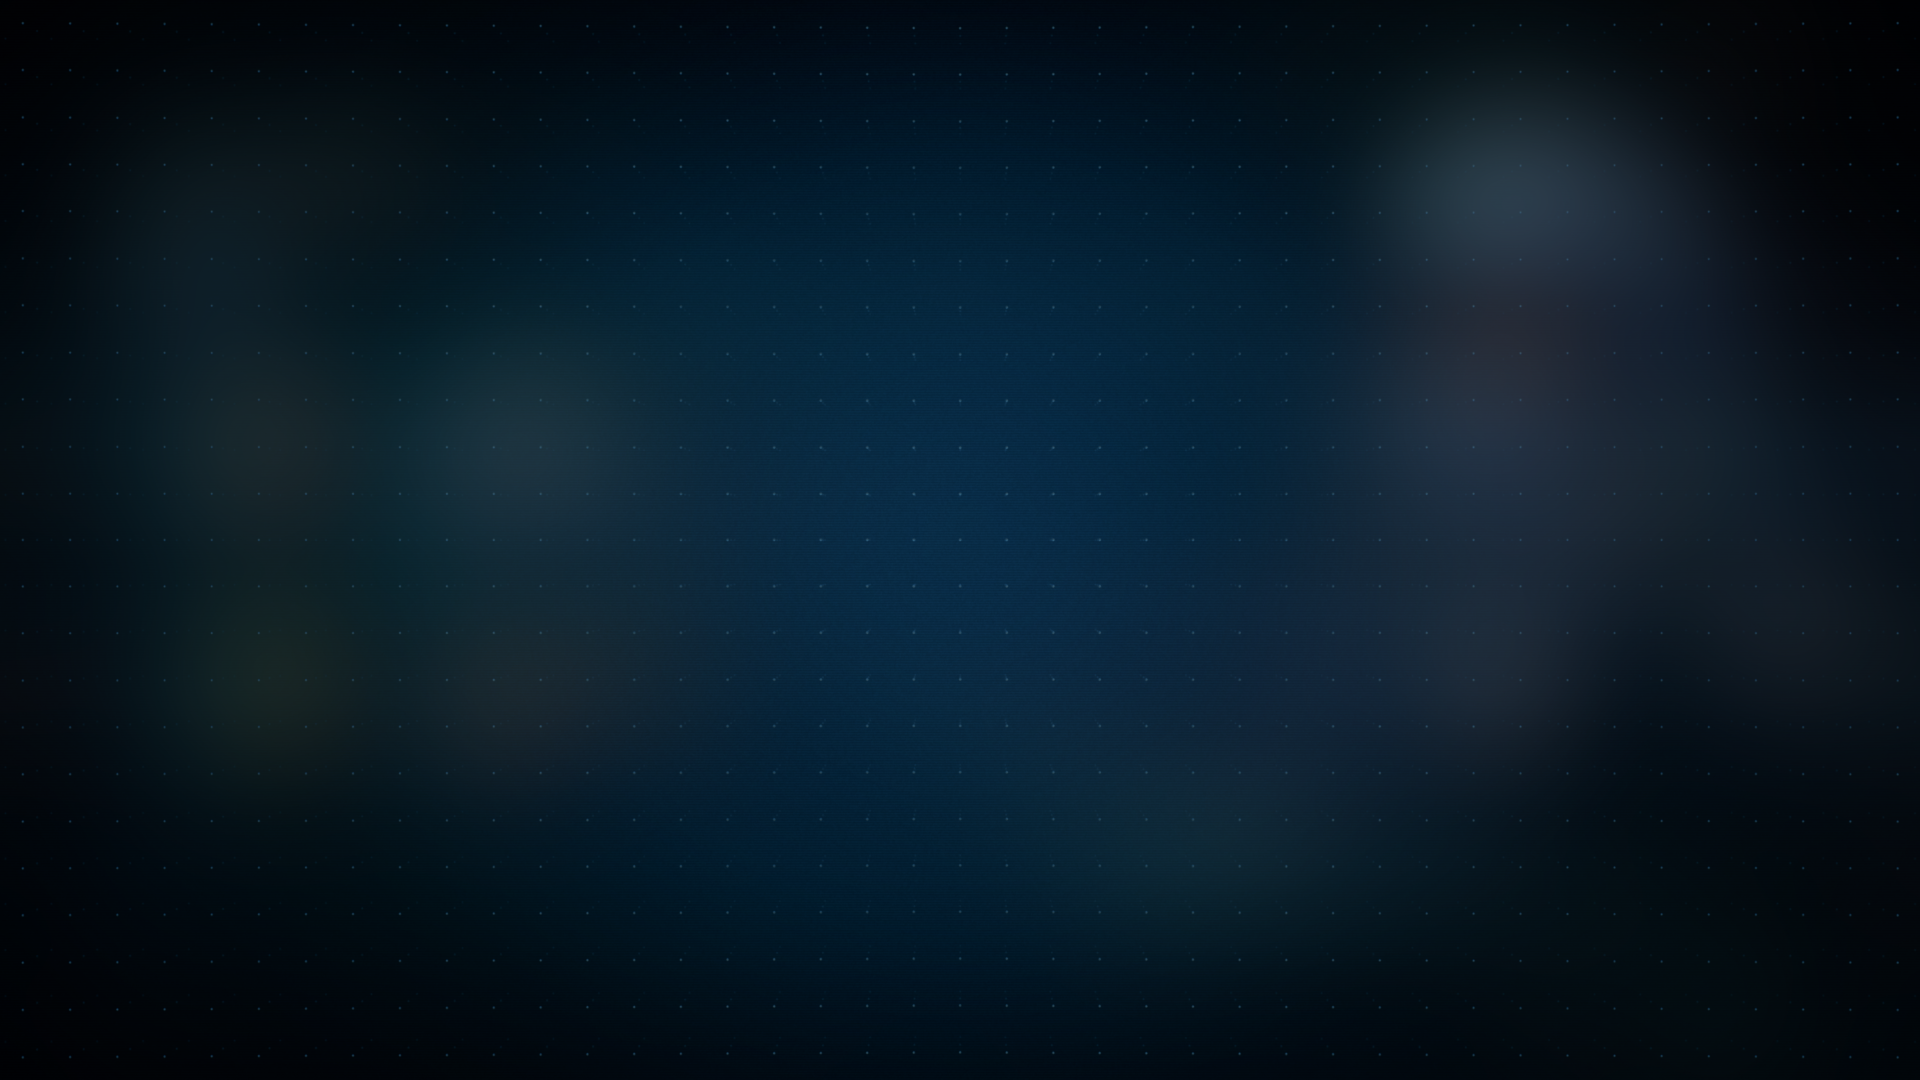
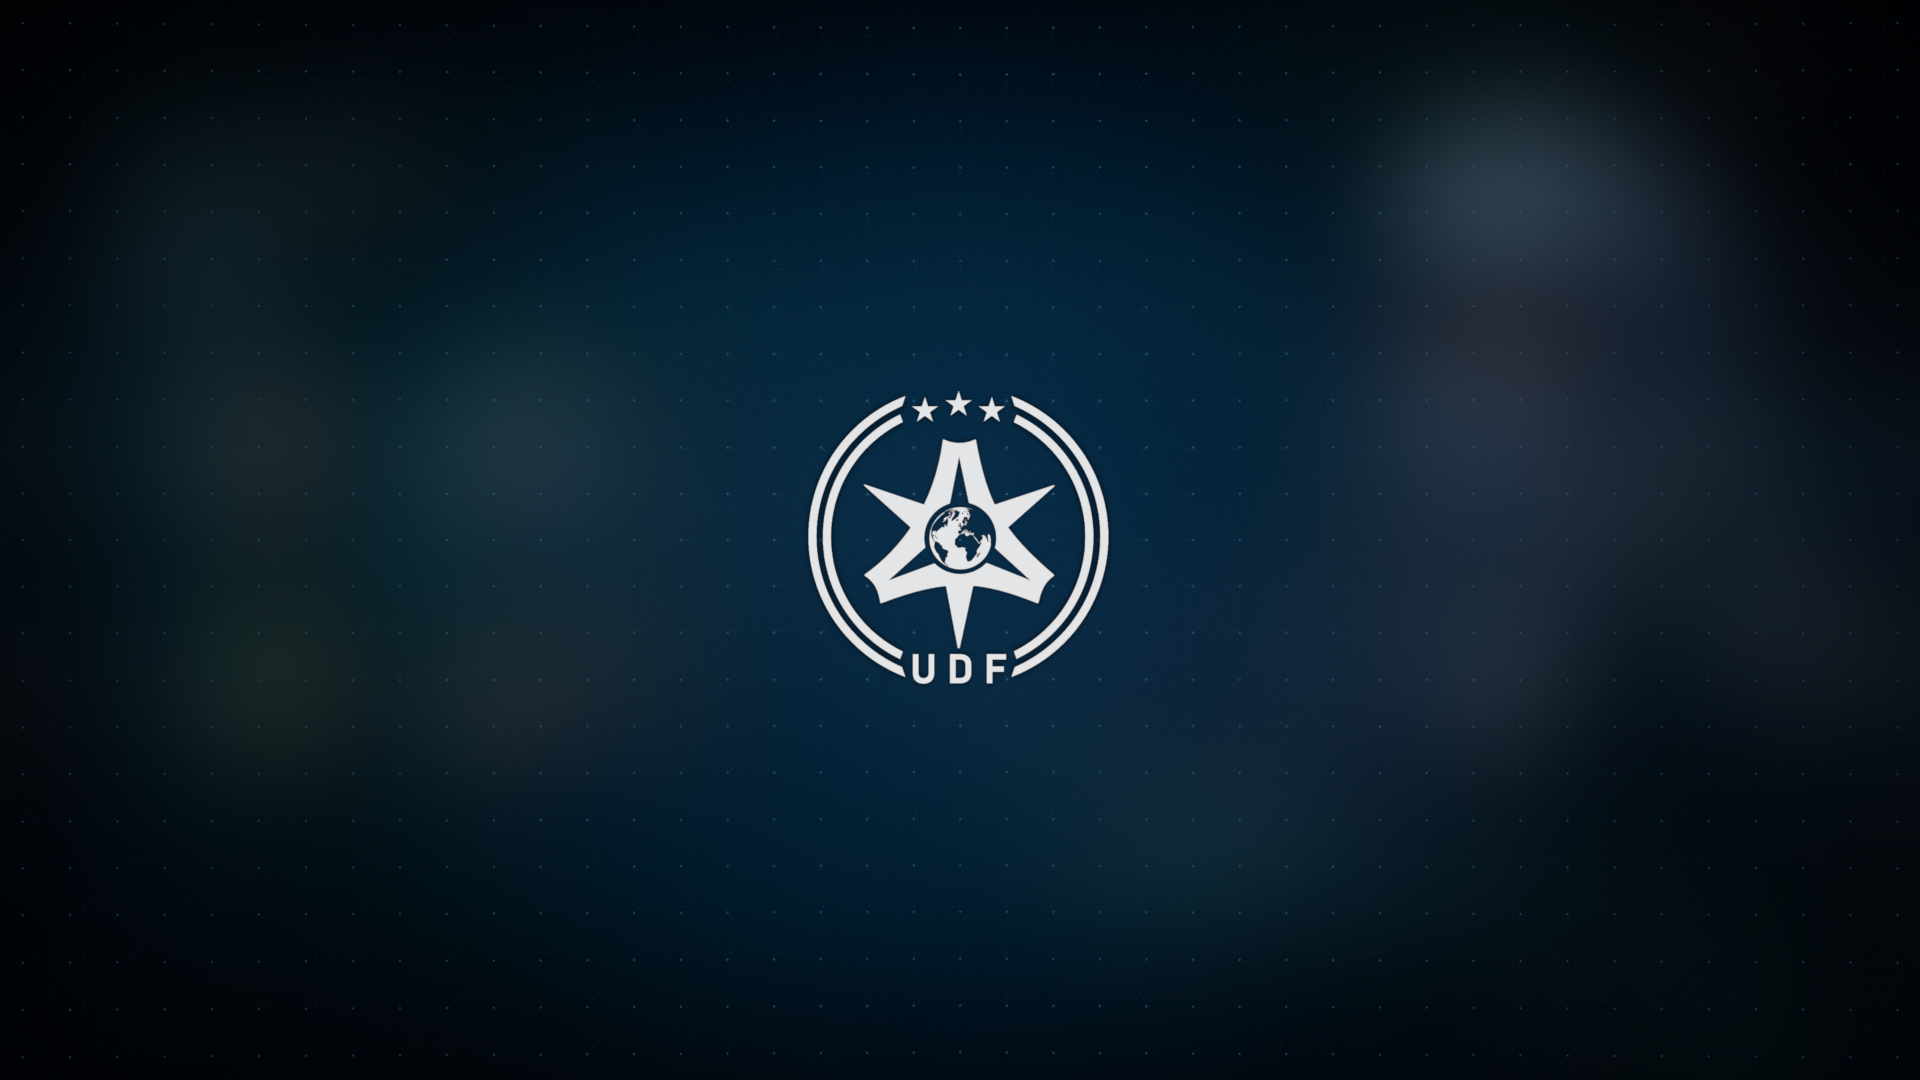
Test

Changed region(s): [[0.4062, 0.3667, 0.5938, 0.6417]]

diff --git a/index.html b/index.html
@@ -58,7 +58,7 @@
     <div class="container d-flex align-items-center justify-content-between">
 
       <a href="index.html" class="logo"><img src="assets/img/logo_1.png" alt="" class="img-fluid"></a>
-      <h1 class="logo"><a href="index.html">United Defense Force</a></h1>
+      <h1 class="logo"><a href="index.html">JOIN THE UDF</a></h1>
       <!-- Uncomment below if you prefer to use an image logo -->
       <!-- <a href="index.html" class="logo"><img src="assets/img/logo.png" alt="" class="img-fluid"></a>-->
 
@@ -98,8 +98,7 @@
   <!-- ======= Hero Section ======= -->
   <section id="hero" class="d-flex align-items-center">
     <div class="container position-relative" data-aos="fade-up" data-aos-delay="500">
-      <img width="20%" src="assets/img/logo_1.png">
-      <!--<h1>UNITED DEFENSE FORCE</h1>-->
+      <h1>UNITED DEFENSE FORCE</h1>
       <h2>For a World, Worth Saving ...</h2>
       <a href="#about" class="btn-get-started scrollto">Enlist today.</a>
     </div>
